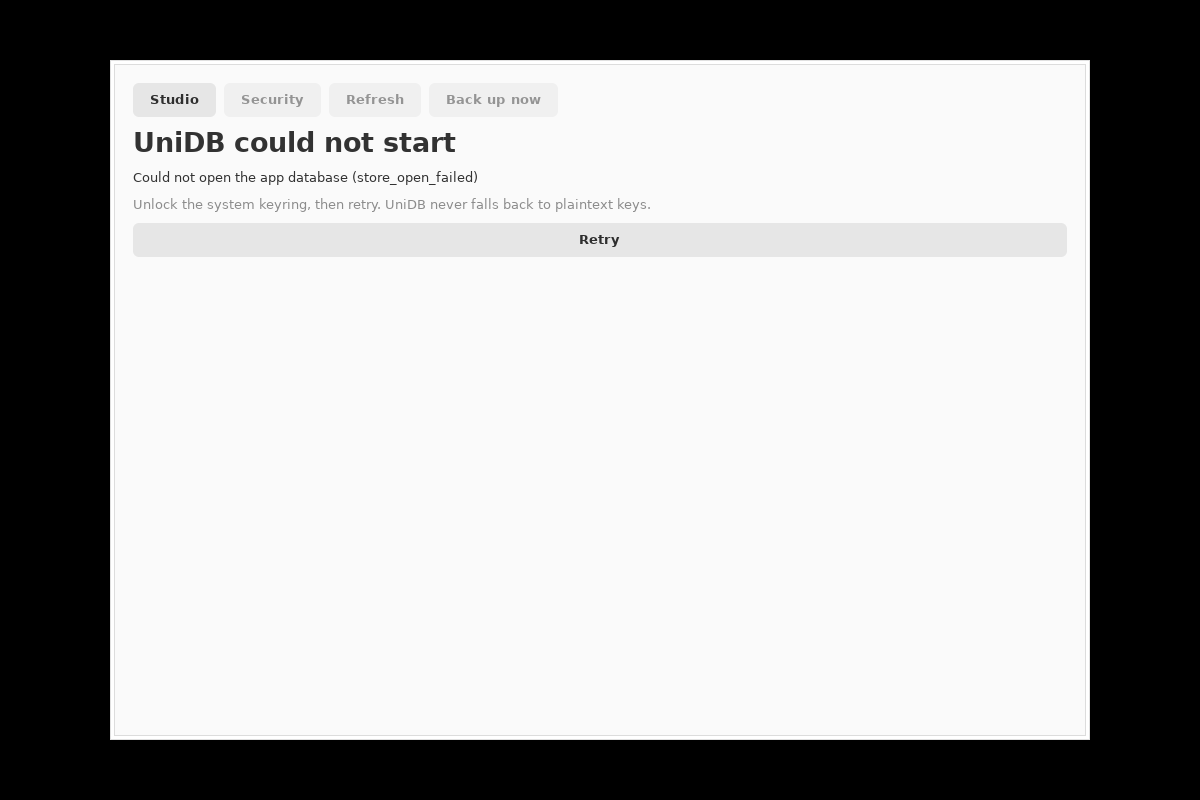
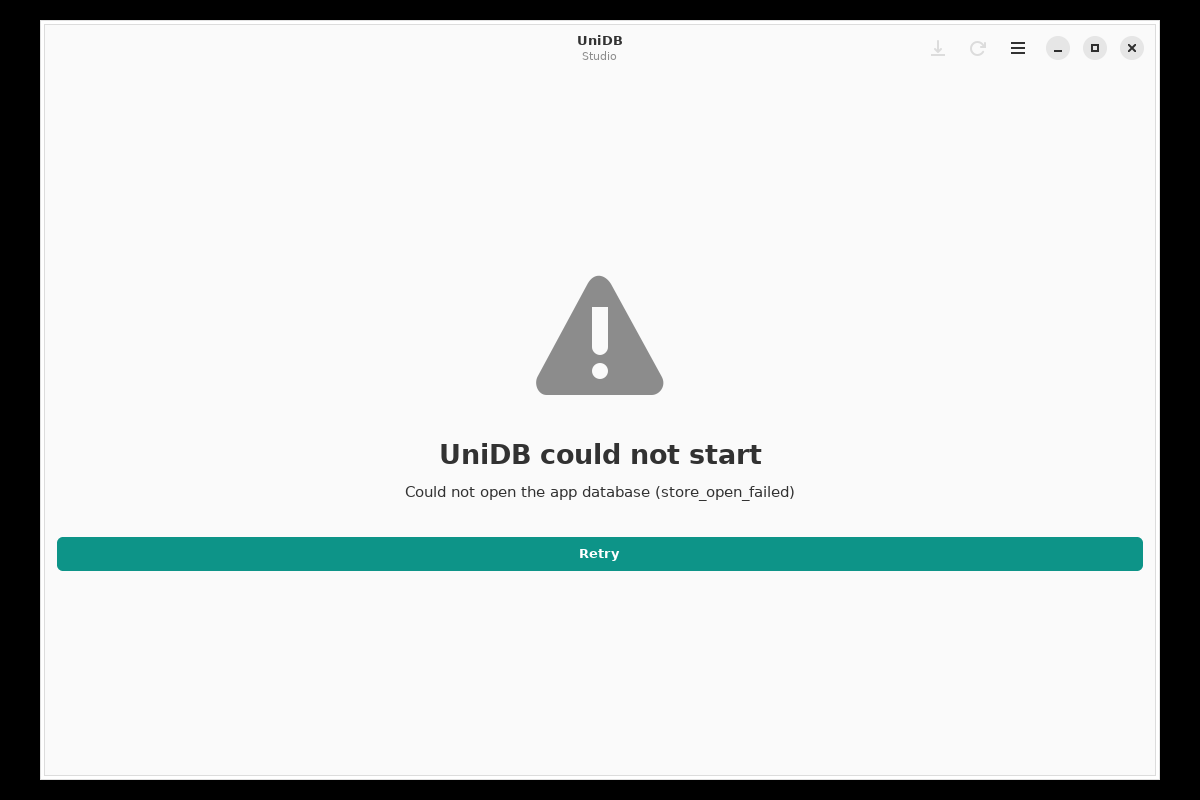
docs(scope): record the design system progress and shell screenshots

diff --git a/docs/scope/scope.md b/docs/scope/scope.md
@@ -9,6 +9,7 @@ UniDB is a native Linux desktop database studio. This file tracks what is being 
 | 1 | Stack and architecture | in-progress | [0001](../specs/0001-native-gtk4-desktop-architecture/index.md) |
 | 2 | Engine layer | in-progress | [0002](../specs/0002-engine-layer.md) |
 | 3 | App store and security screens | in-progress | [0003](../specs/0003-app-store-security.md) |
+| 4 | Design system and app shell | in-progress | [0004](../specs/0004-design-system-shell.md) |
 
 ## Features
 
@@ -56,6 +57,21 @@ UniDB is a native Linux desktop database studio. This file tracks what is being 
   - [x] Interface: Studio, Security, and startup diagnostic pages verified with container screenshots in `docs/evidence/`
 - [ ] Verify it: /check verify App store and security screens
 - [ ] Test it: /test App store and security screens
+
+### 4. Design system and app shell
+
+**Intent**: Give the app one real shell and one design language. A libadwaita navigation split view with a sidebar, a header bar, grouped preference lists, empty states, toast feedback, and an accent mapped onto libadwaita named colors so every later screen plugs into the same structure.
+
+**Done when**: the app window is a libadwaita shell with working sidebar navigation, the Security page reads as grouped rows, the Studio page shows a proper empty state, the startup failure page uses a status page, actions report through toasts, and the three states are captured as screenshots.
+
+- [x] Decide the design system and app shell (spec): [0004](../specs/0004-design-system-shell.md)
+- [ ] Build it: /develop Design system and app shell
+  - [x] Embedded stylesheet with teal accent and utility classes (light and dark safe)
+  - [x] Libadwaita shell: header bar, menu, refresh and backup actions, sidebar navigation split view
+  - [x] Studio empty state, Security preference groups with status rows and audit rows, startup status page
+  - [x] Screenshots in `docs/evidence/` for studio, security, and startup failure
+- [ ] Verify it: /check verify Design system and app shell
+- [ ] Test it: /test Design system and app shell
 
 ## Deferred
 
